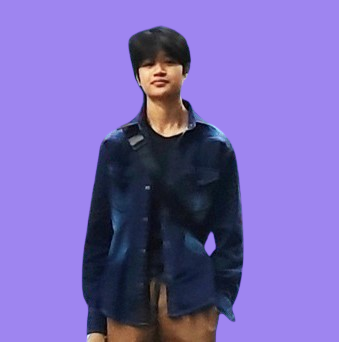
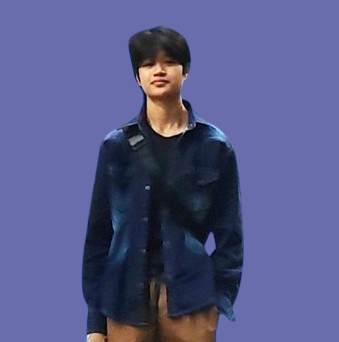
updated css style

diff --git a/index.html b/index.html
@@ -38,7 +38,7 @@
     <div id="home-top"></div> 
 
     <!-- header  -->
-    <nav class="navbar navbar-expand-lg shadow-sm sticky-top" id="navbar-example" >
+    <nav class="navbar navbar-expand-lg shadow-lg sticky-top" id="navbar-example" >
         <div class="container-fluid">
             <a class="navbar-brand ps-3 text-white" href="#">My Portfolio.</a>
             <button class="navbar-toggler text-bg-light" type="button" data-bs-toggle="collapse" data-bs-target="#navbarNav" aria-controls="navbarNav" aria-expanded="false" aria-label="Toggle navigation">
@@ -76,7 +76,7 @@
         <div class="container-lg">
             <div class="row align-items-center align-content-center">
                 <div class="col-lg-6 col-md-6 col-sm-6 mb-2 animate__animated animate__fadeInDown" id="home-img">
-                    <img src="image/profile1-removebg-preview.png" class="w-75 d-block mx-auto">
+                    <img src="image/profile1.png" class="w-75 d-block mx-auto">
                 </div>
                 <div class="col-lg-6 col-md-6 col-sm-6 order-sm-first" id="hello">
                     <h5 class="animate__animated animate__fadeInDown animate__delay-1s">Hello I'm</h5>
@@ -123,7 +123,7 @@
                     <img src="image/profile2.png" class="w-75">
                 </div>
                 <div class="col-lg-6 col-sm-6 mt-4" id="about-content">
-                    <h2>About <span style="color: #9e85f0;">Me</span></h2>
+                    <h2>About <span style="color: #6a6dac;">Me</span></h2>
                     <h4>Hi, I'm here to help your next project! </h4>
                     <p>A beginner developer who is passionate about building software that solves real-world        problems. In my free time, you'll find me working on personal coding projects. I have experience with [ programming languages and frameworks ], and my goal as a developer is to become professional developer. I'm excited to continue learning and growing in this field."</p>
                     <a href="daniel.pdf" class="btn" id="hire">Hire Me</a>
@@ -198,7 +198,7 @@
 
     <!-- services  -->
     <section id="services" class="services reveal">
-        <h2>My <span style="color: #9e85f0;">Services</span></h2>
+        <h2>My <span style="color: #6a6dac;">Services</span></h2>
         <div class="container-lg">
             <div class="row">
                 <div class="col-lg-4 col-sm-6" id="services-content">
@@ -228,7 +228,7 @@
 
     <!-- portfolio  -->
     <section id="portfolio" class="reveal">
-        <h2>My Latest<span style="color: #9e85f0;"> Projects</span></h2>
+        <h2>My Latest<span style="color: #6a6dac;"> Projects</span></h2>
 
         <div class="container swiper">
             <div class="swiper-wrapper">
@@ -355,7 +355,7 @@
 
     <!-- contact  -->
     <section id="contact" class="reveal">
-        <h2>Contact <span style="color: #9e85f0;">Me</span></h2>
+        <h2>Contact <span style="color: #6a6dac;">Me</span></h2>
         <div class="container-lg">
             <div class="row">
                 <div class="col-lg-6 col-sm-6">
@@ -383,7 +383,7 @@
                                     <textarea rows="6" placeholder="Message" class="form-control" id="message" required></textarea>
                                 </div>
                                 <div class="col-lg-12 form-group text-start">
-                                    <button type="submit" id="send"  style="background-color: #624F82;" class="btn text-white" onclick="sendEmail(event);">Send Message</button>
+                                    <button type="submit" id="send"  style="background-color: #424472;" class="btn text-white" onclick="sendEmail(event);">Send Message</button>
                                 </div>
                             </div>
                         </div>

diff --git a/style.css b/style.css
@@ -1,12 +1,13 @@
 :root{
-    --black : #393646;
+    --black : #121420;
     --grey : #4F4557;
-    --light-grey : #6D5D6E;
-    --white : #F4EEE0;
-    --purple : #a892f2;
-    --sky : #635985;
-    --pur-sky : #624F82;
-    --blue : #7597ca;
+    --gray: #4fc7c7;
+    --light-grey : #313c51;
+    --white : #e5e5e5;
+    --purple : #696ebe;
+    --sky : #2a2b47;
+    --pur-sky : #424472;
+    --blue : #7ba7ea;
 }
 
 body{
@@ -39,7 +40,8 @@ body{
 
 /*................... nav bar start .................  */
 #navbar-example{
-    background-color: #6d6e93;
+    background-color:#2c2b3c;
+    box-shadow: #443d4f;
 }
 .navbar .nav-link.active {
     color: var(--purple);
@@ -160,7 +162,7 @@ body{
     height: 99999px;
     background-repeat: no-repeat;
     background-position: 0 0;
-    background-image: conic-gradient( #9e85f0, rgba(69, 47, 47, 0) 23%);
+    background-image: conic-gradient( #324a5f, rgba(69, 47, 47, 0) 23%);
     animation: rotate 4s linear infinite;
 }
 .animated-border-box:after{
@@ -213,7 +215,7 @@ body{
     margin-top: 70px;
     margin-bottom: 40px;
     padding-bottom: 20px;
-    background-image: linear-gradient(to right top, #393646, #3e3a4a, #443d4f, #494153, #4f4557);
+    background-image: linear-gradient(to left bottom, #1b2432, #212733, #262a35, #2b2d36, #2f3037);
     color: white;
 }
 #about-content > h2{
@@ -338,7 +340,7 @@ body{
 }
 #web,#creative,#photo
 {
-    border: 2px solid var(--light-grey);
+    border: 2px solid var(--pur-sky);
     border-top: 5px solid var(--sky);
     border-bottom: 6px solid var(--sky);
     border-radius: 20px;
@@ -347,7 +349,7 @@ body{
 #web > i,#creative > i,#photo > i
 {
     margin-top: 18px;
-    color: var(--purple);
+    color: var(--blue);
     font-size: 25pt;
 }
 #web > h2,#creative > h2,#photo > h2
@@ -378,8 +380,8 @@ body{
 }
 #portfolio-content{
     overflow: hidden;
-    background-image: linear-gradient(to right top, #393646, #3e3a4a, #443d4f, #494153, #4f4557);
-    border: 1px solid var(--light-grey);
+    background-image: linear-gradient(to left bottom, #1b2432, #212733, #262a35, #2b2d36, #2f3037);
+    border: 2px solid var(--light-grey);
     color: white;
 }
 #portfolio-content > div{
@@ -396,7 +398,7 @@ body{
 }
 #portfolio-content > h4{
     text-align: center;
-    color: var(--purple);
+    color: var(--blue);
     margin: 10px auto;
 }
 #portfolio-content > label{
@@ -405,7 +407,7 @@ body{
 }
 #portfolio-content > p{
     margin: 10px 0;
-    color: var(--blue);
+    color: var(--gray);
 }
 #portfolio-content > span{
     display: flex;
@@ -417,7 +419,7 @@ body{
     color: var(--white);
 }
 #portfolio-content > span > a:hover{
-    color: var(--blue);
+    color: var(--gray);
 }
 .swiper{
     position: relative;
@@ -440,7 +442,7 @@ body{
 }
 .swiper-btns button{
     position: static;
-    background-color: var(--sky);
+    background-color: var(--pur-sky);
     color: white;
     border: none;
     width: 43px;
@@ -483,7 +485,7 @@ body{
 }
 
 .form-control{
-    box-shadow: 5px 5px 1px 1px var(--sky);
+    box-shadow: 5px 5px 1px 1px var(--light-grey);
     padding-bottom: 10px;
     margin-bottom: 15px;
     font-size: 13pt;
@@ -493,7 +495,7 @@ body{
 }
 .form-control:focus{
     box-shadow: none;
-    border-color: var(--purple);
+    border-color: var(--blue);
 }
 textarea{
     resize: none !important;
@@ -512,7 +514,7 @@ textarea{
 
 /*................... footer start .................  */
 #footer{
-    background-color: var(--grey);
+    background-color:#2c2b3c;
 }
 #footer-social{
     text-align: center;
@@ -524,7 +526,7 @@ textarea{
     padding: 25px 10px;
 }
 #footer-social > a:hover{
-    color: var(--purple);
+    color: var(--blue);
 }
 hr{
     color: white;
